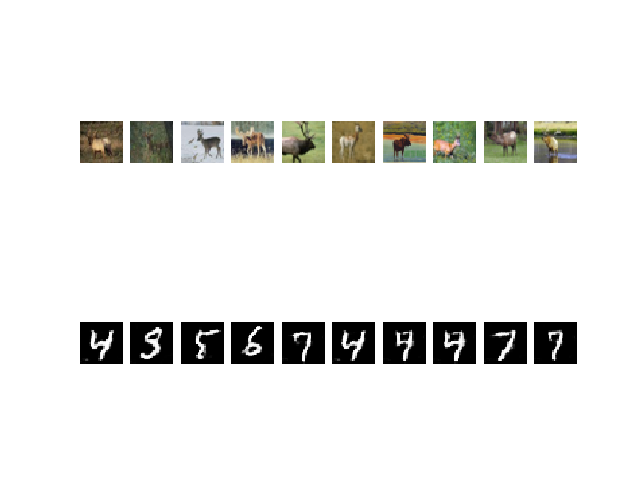
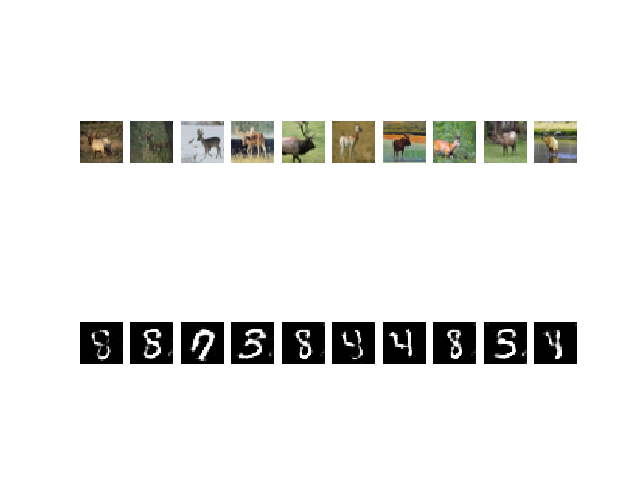
edits to img driver

diff --git a/generator_1_img_driver.py b/generator_1_img_driver.py
@@ -1,0 +1,90 @@
+from __future__ import print_function
+import matplotlib
+matplotlib.use('Agg')
+
+import keras
+from keras.datasets import cifar10
+from keras.layers import Conv2D, MaxPooling2D
+
+from keras.layers import Input, Dense, Reshape, Flatten, Dropout, Concatenate
+from keras.layers import BatchNormalization, Activation, ZeroPadding2D
+from keras.layers.advanced_activations import LeakyReLU
+from keras.layers.convolutional import UpSampling2D, Conv2D
+from keras.models import Sequential, Model
+from keras.optimizers import Adam
+
+from keras.models import load_model
+
+import os
+
+import matplotlib.pyplot as plt
+
+save_dir = os.path.join('models', 'saved_models')
+
+# The data, split between train and test sets:
+(x_train, y_train), (x_test, y_test) = cifar10.load_data()
+print('x_train shape:', x_train.shape)
+print(x_train.shape[0], 'train samples')
+print(x_test.shape[0], 'test samples')
+
+x_train = x_train.astype('float32')
+x_test = x_test.astype('float32')
+x_train /= 255
+x_test /= 255
+
+# GENERATOR
+tmp = os.path.join(save_dir, 'mnemonic_model1_3.h5')
+generator_model = load_model(tmp)
+generator_model.trainable = False
+
+print(generator_model.layers)
+
+# img_rows = 32
+# img_cols = 32
+# channels = 3
+# img_shape = (img_rows, img_cols, channels)
+#
+# img = Input(shape=img_shape)
+#
+# # MNEMONIC DEVICE
+#
+# mnist_img = generator_model(img)
+#
+# gen = Model(img, mnist_img)
+#
+# # generate the images
+# for i in range(10):
+#     # sample 5 images for each class
+#
+#     sample = []
+#
+#     for ind, image in enumerate(x_train):
+#         if y_train[ind] == i:
+#             sample.append(ind)
+#
+#         if len(sample) == 10:
+#             break
+#
+#     noise = x_train[sample]
+#     mnist = gen.predict(noise)
+#
+#     r, c = 2, 10
+#     fig, axs = plt.subplots(r, c)
+#
+#     # generate the images
+#     for ind, index in enumerate(sample):
+#         my_input = x_train[index]
+#         my_output = mnist[ind]
+#
+#         my_output = 0.5 * my_output + 0.5
+#
+#
+#         axs[0, ind].imshow((my_input/255.).astype('float32'))
+#         axs[0, ind].axis('off')
+#         axs[1, ind].imshow(my_output[:, :, 0], cmap='gray')
+#         axs[1, ind].axis('off')
+#
+#     if not os.path.isdir("images4/"):
+#         os.makedirs("images4/")
+#     fig.savefig("images4/mnist_%d.png" % i)
+#     plt.close()

diff --git a/process_results.py b/process_results.py
@@ -1,6 +1,6 @@
 import matplotlib.pyplot as plt
 
-results = ["t1_sen_out.txt", "baseline_out.txt"]
+results = ["t1_sen_out.txt", "sen_baseline_out.txt", "baseline_out.txt"]
 
 epoch = [i+1 for i in range(100)]
 
@@ -49,14 +49,14 @@ train_steps = []
 for j in range(len(results)):
     train_steps.append([i for i in range(len(train_loss[j]))])
 
-plt.plot(epoch, train_loss[0], epoch, train_loss[1])#, epoch, train_loss[2], epoch, train_loss[3], epoch, train_loss[4], epoch, train_loss[5], epoch, train_loss[6], epoch, train_loss[7], epoch, train_loss[8])
+plt.plot(epoch, train_loss[0], epoch, train_loss[1], epoch, train_loss[2])#, epoch, train_loss[3], epoch, train_loss[4], epoch, train_loss[5], epoch, train_loss[6], epoch, train_loss[7], epoch, train_loss[8])
 plt.show()
 
-plt.plot(epoch, train_acc[0], epoch, train_acc[1])#, epoch, train_acc[2], epoch, train_acc[3], epoch, train_acc[4], epoch, train_acc[5], epoch, train_acc[6], epoch, train_acc[7], epoch, train_acc[8])
+plt.plot(epoch, train_acc[0], epoch, train_acc[1], epoch, train_acc[2])#, epoch, train_acc[3], epoch, train_acc[4], epoch, train_acc[5], epoch, train_acc[6], epoch, train_acc[7], epoch, train_acc[8])
 plt.show()
 
-plt.plot(epoch, valid_loss[0], epoch, valid_loss[1])#, epoch, valid_loss[2], epoch, valid_loss[3], epoch, valid_loss[4], epoch, valid_loss[5], epoch, valid_loss[6], epoch, valid_loss[7], epoch, valid_loss[8])
+plt.plot(epoch, valid_loss[0], epoch, valid_loss[1], epoch, valid_loss[2])#, epoch, valid_loss[3], epoch, valid_loss[4], epoch, valid_loss[5], epoch, valid_loss[6], epoch, valid_loss[7], epoch, valid_loss[8])
 plt.show()
 
-plt.plot(epoch, valid_acc[0], epoch, valid_acc[1])#, epoch, valid_acc[2], epoch, valid_acc[3], epoch, valid_acc[4], epoch, valid_acc[5], epoch, valid_acc[6], epoch, valid_acc[7], epoch, valid_acc[8])
+plt.plot(epoch, valid_acc[0], epoch, valid_acc[1], epoch, valid_acc[2])#, epoch, valid_acc[3], epoch, valid_acc[4], epoch, valid_acc[5], epoch, valid_acc[6], epoch, valid_acc[7], epoch, valid_acc[8])
 plt.show()

diff --git a/generator_2_img_driver.py b/generator_2_img_driver.py
@@ -28,6 +28,9 @@ print(x_train.shape[0], 'train samples')
 print(x_test.shape[0], 'test samples')
 
 x_train = x_train.astype('float32')
+x_test = x_test.astype('float32')
+x_train /= 255
+x_test /= 255
 
 # GENERATOR
 tmp = os.path.join(save_dir, 'generator2.h5')
@@ -73,7 +76,7 @@ for i in range(10):
         my_output = 0.5 * my_output + 0.5
 
 
-        axs[0, ind].imshow((my_input/255.).astype('float32'))
+        axs[0, ind].imshow((my_input).astype('float32'))
         axs[0, ind].axis('off')
         axs[1, ind].imshow(my_output[:, :, 0], cmap='gray')
         axs[1, ind].axis('off')
